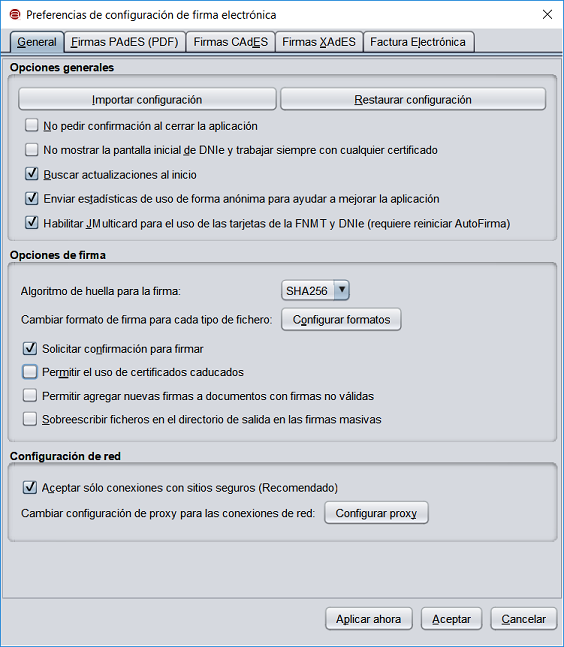
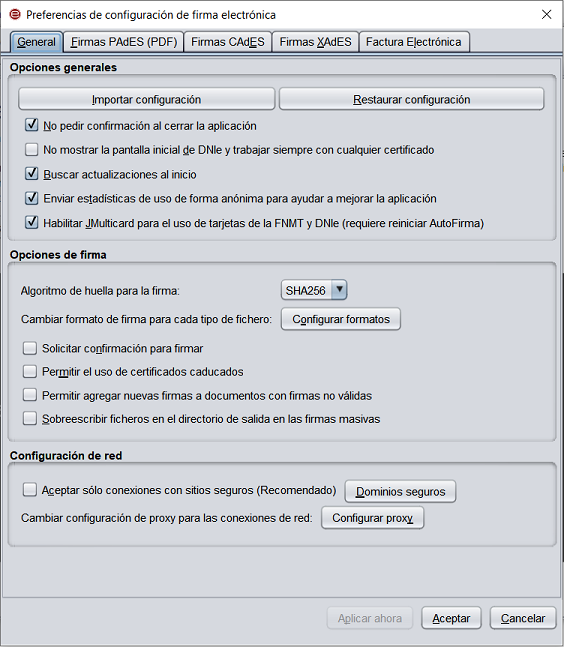
Actualización de la ayuda integrada con la nueva funcionalidad.

diff --git a/afirma-simple/src/main/resources/help/Spanish.lproj/pgs/VentanaListaBlancaDominios.html b/afirma-simple/src/main/resources/help/Spanish.lproj/pgs/VentanaListaBlancaDominios.html
@@ -1,0 +1,26 @@
+<!DOCTYPE HTML PUBLIC "-//W3C//DTD HTML 4.01 Transitional//EN" "http://www.w3.org/TR/html4/loose.dtd">
+<html>
+ <head>
+  <title>Configuraci&oacute;n de lista blanca de dominios</title>
+  <meta http-equiv="Content-type" content="text/html;charset=UTF-8">
+  <meta name="KEYWORDS" content="preferencias, configurar, lista, blanca, dominios">
+  <meta name="description" content="Men&uacute; preferencias.">
+ </head>
+ <body> 
+  <h2>Configuraci&oacute;n de lista blanca de dominios</h2>
+  <p>
+  En ocasiones, Java no reconoce algunos dominios como seguros al conectar con AutoFirma a un servicio externo a trav&eacute;s de un canal SSL.
+  Esta funci&oacute;n permite configurar en AutoFirma una lista de dominios que ser&aacute;n reconocidos como seguros y evitar esta problem&aacute;tica.
+  </p>
+  <p>
+  Estos dominios, se podr&aacute;n a&ntilde;adir en el cuadro de texto que se muestra en la siguiente imagen, separador por comas o saltos de l&iacute;nea.
+  Tambien se permite indicar con un asterisco como comod&iacute;n en el principio o final del dominio que se indique.
+  </p>
+  <p align="center">
+  	<img src="../gfx/menulistablancadominios.png" alt="Pantalla para la configuraci&oacute;n de la lista de dominios">
+  </p>
+  <p>La configuraci&oacute;n establecida se aplicar&aacute; al pulsar sobre el bot&oacute;n <b>OK</b>. Si se pulsa el bot&oacute;n
+  <b>Cancelar</b>, se cerrar&aacute; la ventana sin aplicar la configuraci&oacute;n.</p>
+  <p>
+ </body>
+</html>

diff --git a/afirma-simple/src/main/resources/help/Spanish.lproj/pgs/MenuPreferencias.html b/afirma-simple/src/main/resources/help/Spanish.lproj/pgs/MenuPreferencias.html
@@ -74,9 +74,13 @@
      comprobar&aacute; la confianza del certificado SSL de los sitios web a los que deba conectarse la aplicaci&oacute;n. Si se
      trabaja en sitios web con un certificado SSL no reconocido, es probable que deba deshabilitar esta opci&oacute;n.</li>
     </ul>
+	<ul>
+     <li><b>Dominios seguros:</b> Opci&oacute;n para configurar una lista de dominios que AutoFirma tratar&aacute; como seguros al conectar a traves de SSL.
+     Para saber m&aacute;s, consulte la p&aacute;gina <a href="VentanaListaBlancaDominios.html">Configuraci&oacute;n de lista blanca de dominios</a>.</li>
+    </ul>
     <ul>
      <li><b>Configurar proxy:</b> Opci&oacute;n para configurar el proxy para todas las conexiones de red de
-     AutoFirma. Para saber más, consulte la página <a href="VentanaConfigurarProxy.html">Configuraci&oacute;n del proxy de red</a>.</li>
+     AutoFirma. Para saber m&aacute;s, consulte la página <a href="VentanaConfigurarProxy.html">Configuraci&oacute;n del proxy de red</a>.</li>
     </ul>
    </li>
   </ul>

diff --git a/afirma-simple/src/main/resources/help/index.html b/afirma-simple/src/main/resources/help/index.html
@@ -79,6 +79,7 @@
 	 <li><a href='javascript:loadScreen("pgs/MenuPreferencias.html");'>Menu de configuraci&oacute;n</a></li>
 	 <li><a href='javascript:loadScreen("pgs/MenuPlugins.html");'>Panel de gestion de plugins</a></li>
 	 <li><a href='javascript:loadScreen("pgs/VentanaConfigurarProxy.html");'>Ventana de configuraci&oacute;n de proxy</a></li>
+	 <li><a href='javascript:loadScreen("pgs/VentanaListaBlancaDominios.html");'>Ventana de configuraci&oacute;n de lista blanca de dominios</a></li>
 	 <li><a href='javascript:loadScreen("pgs/VentanaPdfVisible.html");'>Ventana de configuraci&oacute;n de elementos visibles en PDF</a></li>
 	 <li><a href='javascript:loadScreen("pgs/LineaComandos.html");'>Uso por l&iacute;nea de comandos</a></li>
 	 <li><a href='javascript:loadScreen("pgs/Licencia.html");'>Licencia de uso y distribucion</a></li>

diff --git a/afirma-simple/src/main/java/es/gob/afirma/standalone/ui/preferences/SecureDomainsHandler.java b/afirma-simple/src/main/java/es/gob/afirma/standalone/ui/preferences/SecureDomainsHandler.java
@@ -57,6 +57,11 @@ public class SecureDomainsHandler {
 		}
 	}
 
+	/**
+	 * Comprueba que el formato de los dominios indicados sea el correcto.
+	 * @param domainsText Texto con todos los dominios.
+	 * @throws ConfigurationException Error en caso de formato incorrecto en la lista de dominios.
+	 */
 	private static void checkCorrectDomainFormat(final String domainsText) throws ConfigurationException {
 		if (domainsText.indexOf(COMMA_SEPARATOR) != -1
 				&& domainsText.indexOf(LINE_BREAK_SEPARATOR) != -1) {
